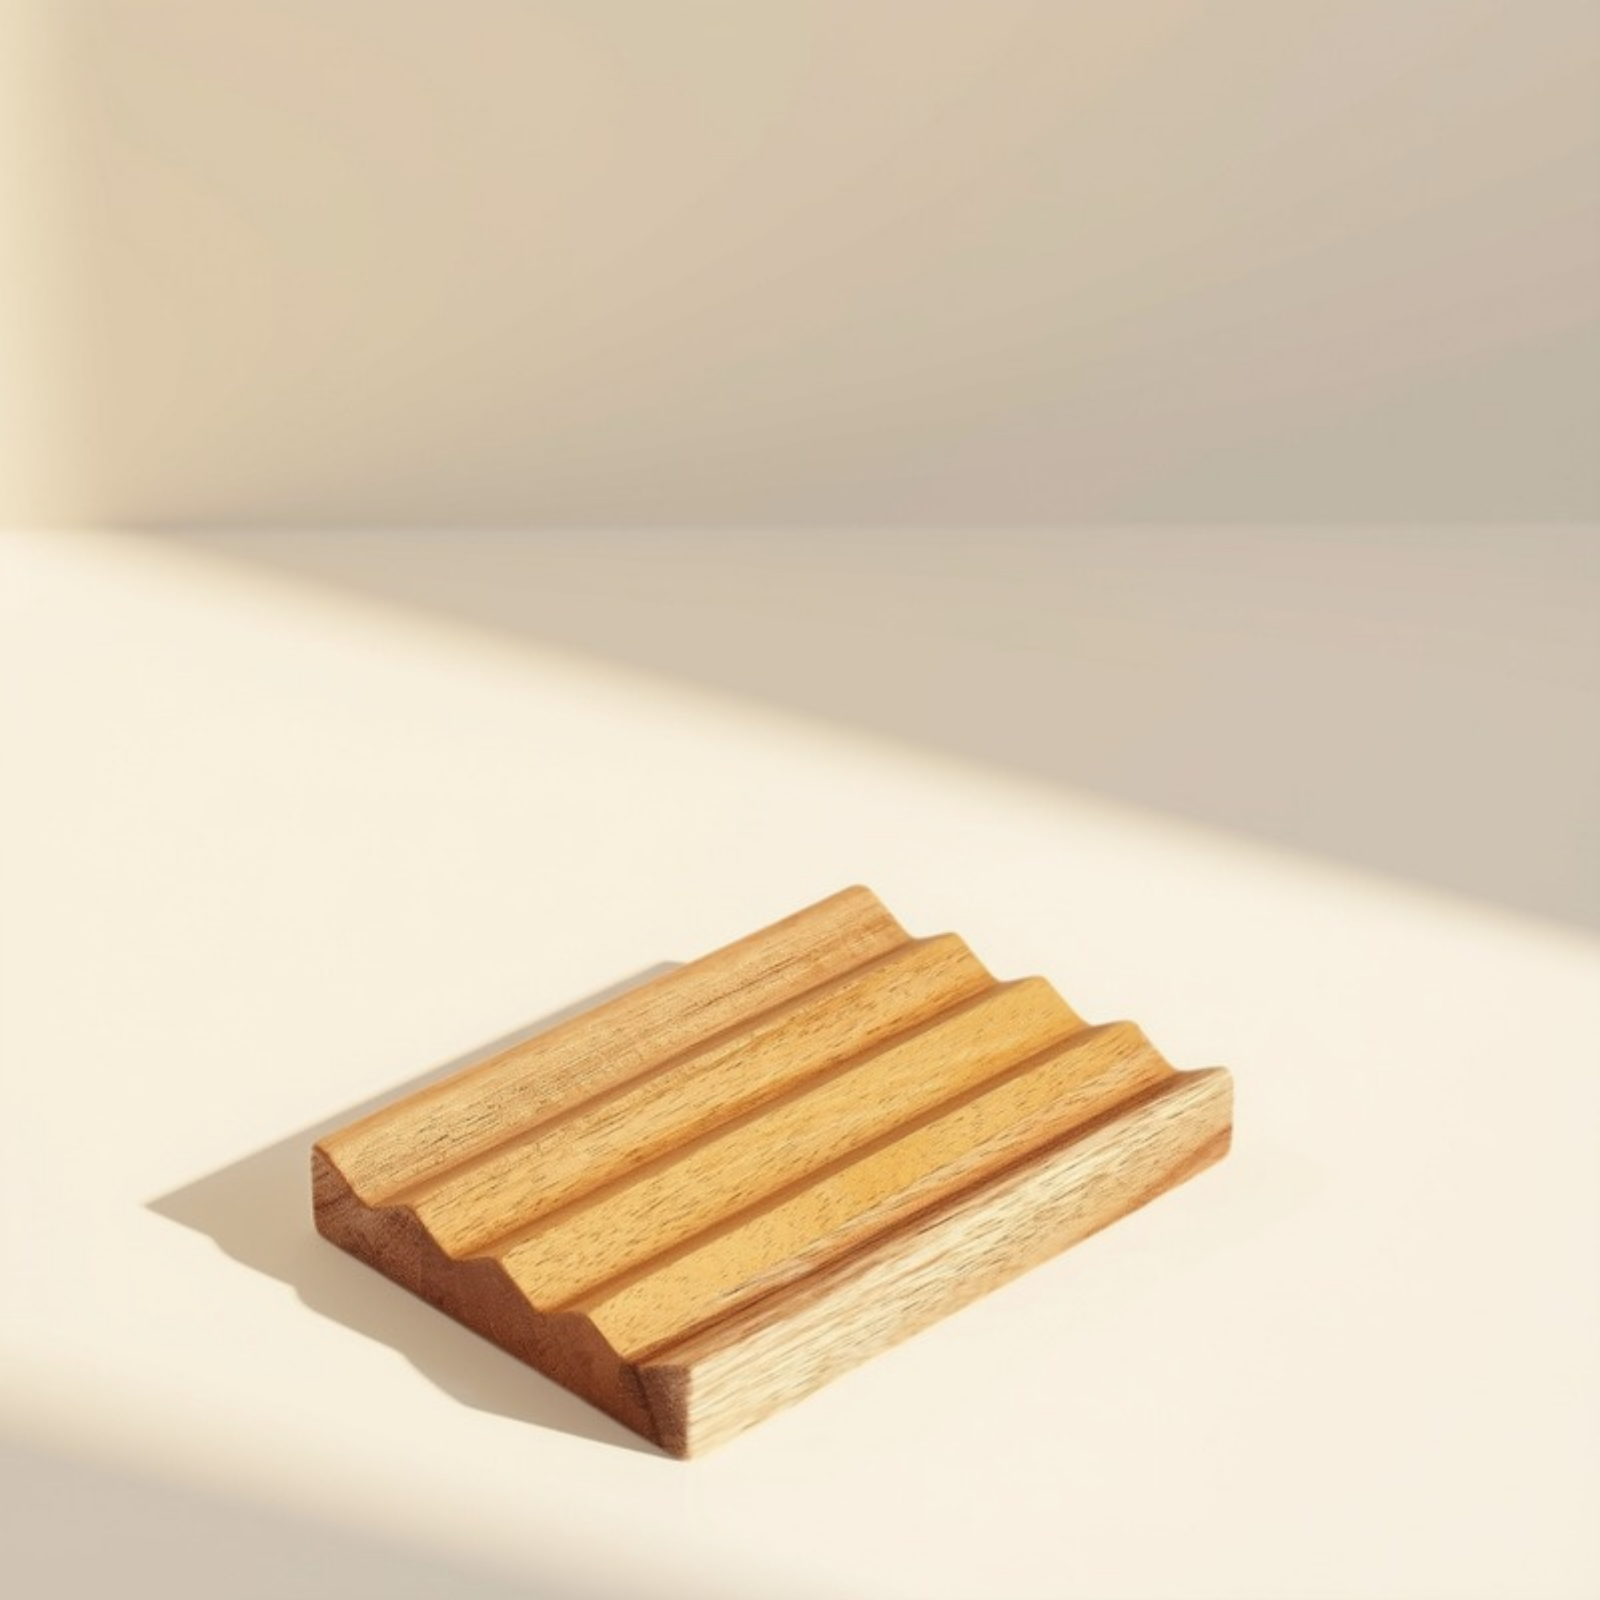
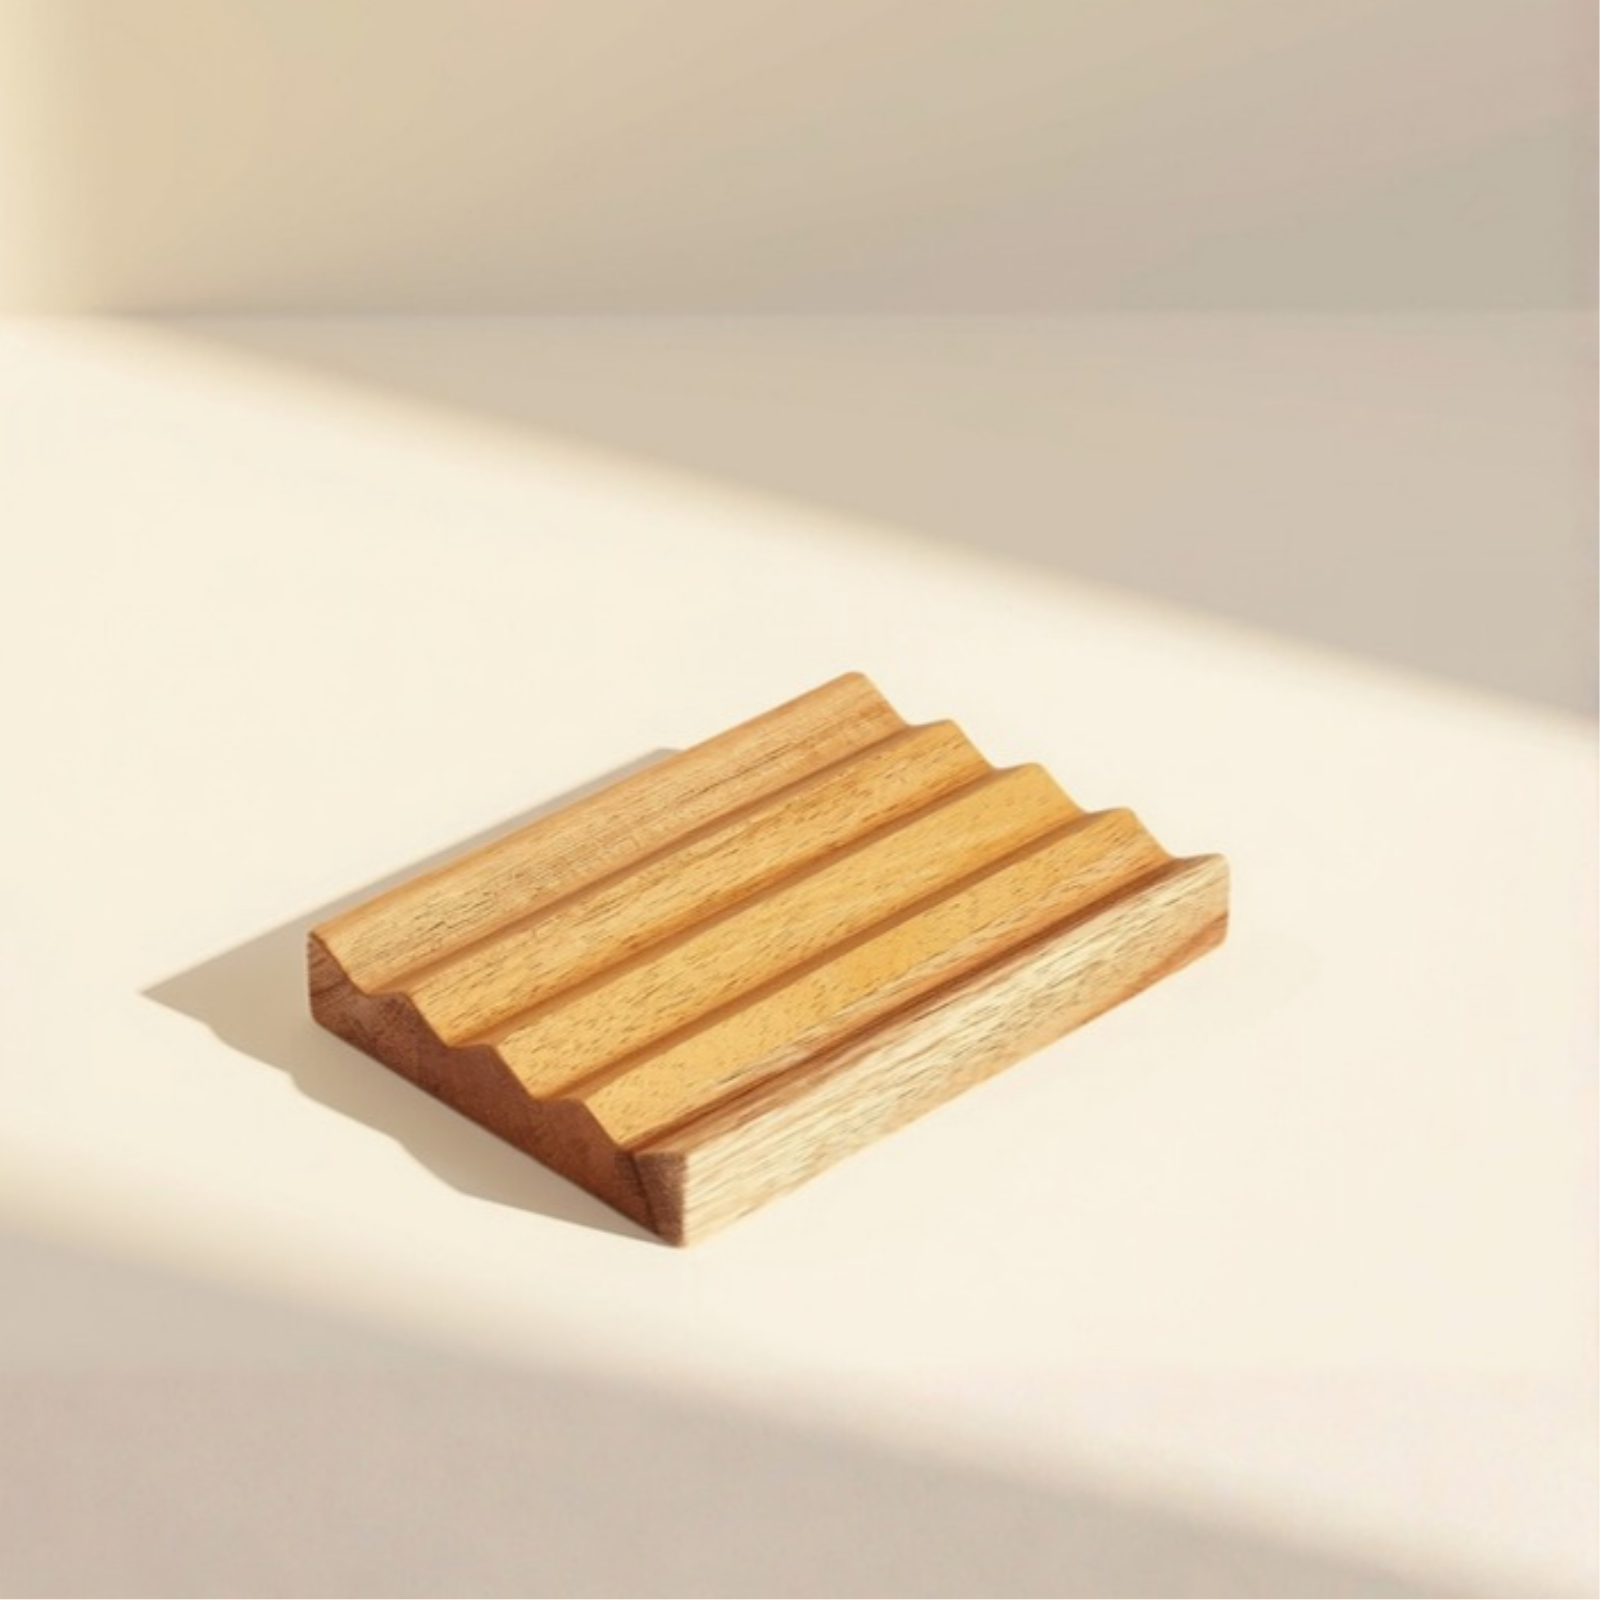
Add accessories to Curated Ritual; recenter teak dish photo
- Curated Ritual dropdowns (the three starting rows and any added rows)
  now include an Accessories group: Teak Soap Dish and Sisal Soap Saver
  Bag, priced with the same 10% Ritual discount
- FAQ mix-and-match answer mentions accessories
- Teak dish photo re-exported from Canva, centered and zoomed in

diff --git a/shop.html b/shop.html
@@ -567,6 +567,10 @@
                   <option>Peppermint</option>
                   <option>Guava</option>
                 </optgroup>
+                <optgroup label="Accessories">
+                  <option>Teak Soap Dish</option>
+                  <option>Sisal Soap Saver Bag</option>
+                </optgroup>
               </select>
               <button type="button" class="mix-remove" aria-label="Remove this item">&times;</button>
             </div>
@@ -594,6 +598,10 @@
                   <option>Peppermint</option>
                   <option>Guava</option>
                 </optgroup>
+                <optgroup label="Accessories">
+                  <option>Teak Soap Dish</option>
+                  <option>Sisal Soap Saver Bag</option>
+                </optgroup>
               </select>
               <button type="button" class="mix-remove" aria-label="Remove this item">&times;</button>
             </div>
@@ -620,6 +628,10 @@
                   <option>Vanilla</option>
                   <option>Peppermint</option>
                   <option>Guava</option>
+                </optgroup>
+                <optgroup label="Accessories">
+                  <option>Teak Soap Dish</option>
+                  <option>Sisal Soap Saver Bag</option>
                 </optgroup>
               </select>
               <button type="button" class="mix-remove" aria-label="Remove this item">&times;</button>

diff --git a/script.js b/script.js
@@ -19,6 +19,8 @@ const SCENT_SLUGS = {
   "Vanilla": "vanilla-lip-balm",
   "Peppermint": "peppermint-lip-balm",
   "Guava": "guava-lip-balm",
+  "Teak Soap Dish": "teak-soap-dish",
+  "Sisal Soap Saver Bag": "soap-saver-bag",
 };
 
 // Populated by the stock-marking block below once /get-inventory resolves.
@@ -33,6 +35,7 @@ const MIX_MATCH_GROUPS = [
   { label: "Soap", items: ["Quiet Clay", "Jade Hollow", "Lavender Dawn", "Lavender Bloom", "Garnet Dusk", "Indigo Grove", "Onyx Ember", "Golden Harvest", "Emerald Meadow"] },
   { label: "Tallow Cream", items: ["Lavender Tallow Body Cream", "Frankincense Tallow Facial Cream", "Unscented Tallow Body Cream", "Unscented Tallow Facial Cream"] },
   { label: "Lip Balm", items: ["Vanilla", "Peppermint", "Guava"] },
+  { label: "Accessories", items: ["Teak Soap Dish", "Sisal Soap Saver Bag"] },
 ];
 
 // Preorder ship dates, keyed by the same product slug used in SCENT_SLUGS.

diff --git a/faq.html b/faq.html
@@ -205,7 +205,8 @@
       <details class="faq-item">
         <summary>Can I mix and match scents?</summary>
         <p>Absolutely — mix and match soap scents freely, or visit Rituals on the shop page,
-          where Curated Ritual lets you build your own set from any soap, cream, or lip balm,
+          where Curated Ritual lets you build your own set from any soap, cream, lip balm, or
+          accessory,
           priced together as one considered whole.</p>
       </details>
 
